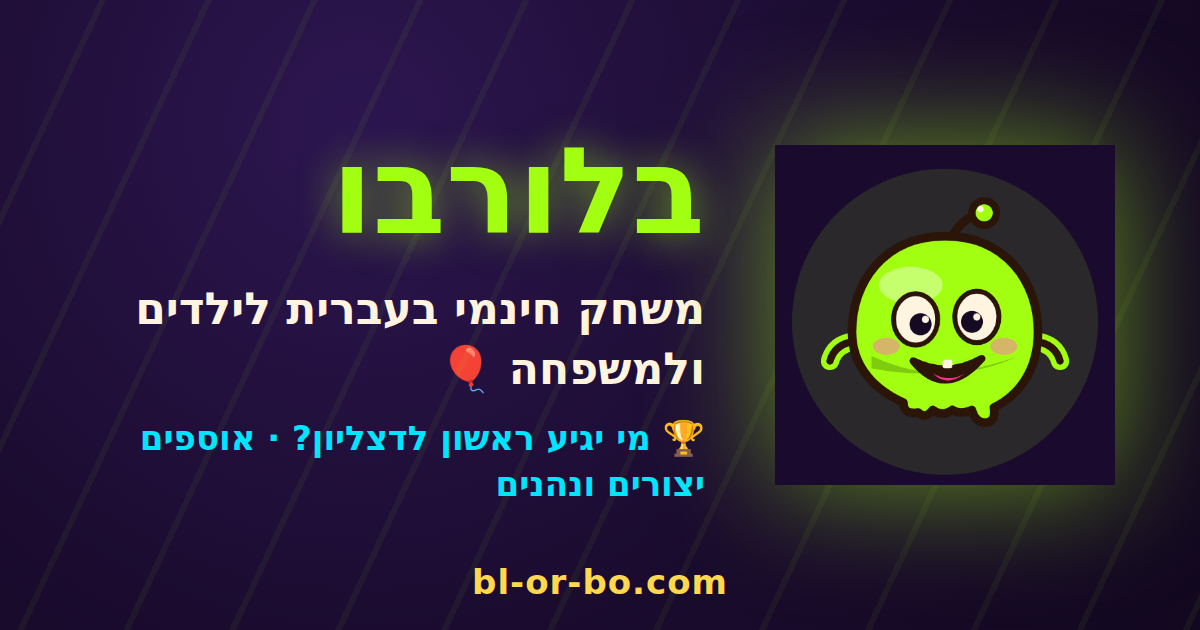
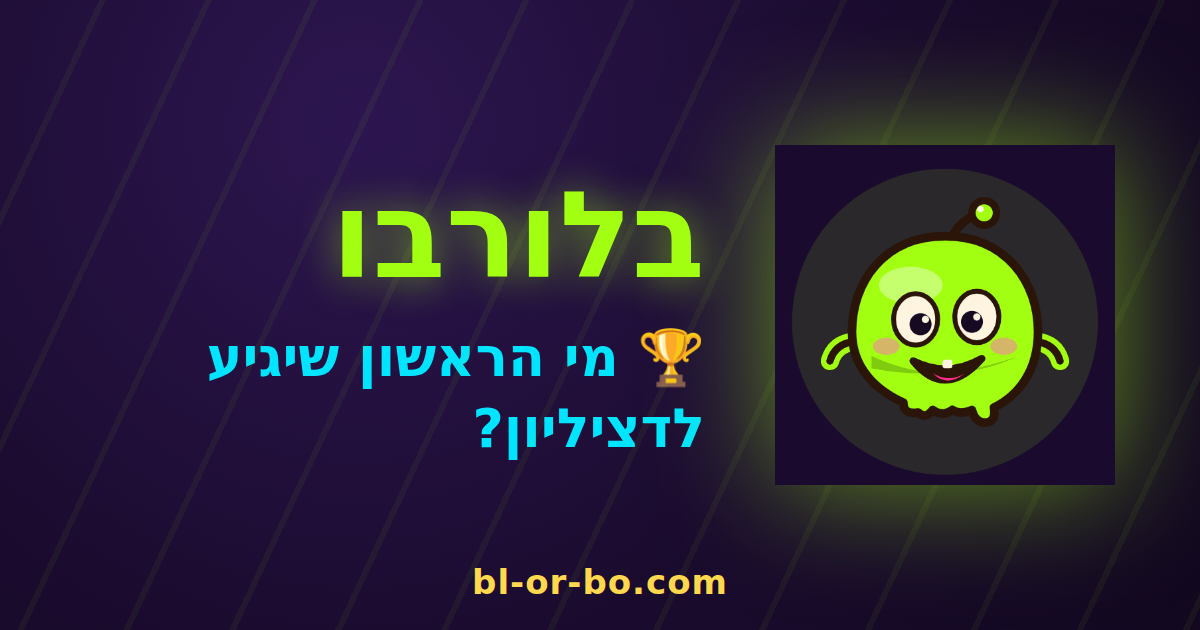
Share copy = the challenge only; clarify the gold-bonus ability text
Owner iteration on the distribution push.

- Share (image + text + meta) is now just the hook, no "free game in Hebrew"
  description: og.png regenerated to "🏆 מי הראשון שיגיע לדציליון?", and
  SHARE_TEXT / og:description / meta description trimmed to match.
- The "gold bonus" creature ability read "+50% מבונוס הזהב", which didn't say
  what it does. It multiplies the golden-blob payout by 1+value (store.ts), so
  the label now reads "הבלוב הזהב משלם +50%" — plainly, the golden blob pays
  more. Copy-only (not a golden-locked rule; 792 unit incl. golden still green).

SW cache v130 -> v131. Client auto-deploys.

Claude-Session: https://claude.ai/code/session_01FUpLehrZUYkMZWaX4vz3PX

Changed region(s): [[0.0925, 0.2111, 0.5858, 0.7238], [0.0925, 0.6635, 0.2158, 0.7238], [0.4008, 0.754, 0.5858, 0.7841]]

diff --git a/index.html b/index.html
@@ -8,7 +8,7 @@
          being distributed around (owner request) — the "no pop-up ads" line was
          pulled from the SHARE copy; the factual promise still lives in
          parents.html for parents who open it. -->
-    <meta name="description" content="בלורבו — משחק חינמי בעברית לילדים ולמשפחה. מי יגיע ראשון לדצליון? לוחצים, בוקעים ביצים ואוספים יצורים חמודים, ומטפסים בטבלת המובילים." />
+    <meta name="description" content="בלורבו — מי הראשון שיגיע לדציליון?" />
     <link rel="canonical" href="https://bl-or-bo.com/" />
     <!-- Share cards: a link pasted in WhatsApp/Facebook (where Israeli parents
          actually swap game recommendations) renders as a rich card, not a bare
@@ -16,7 +16,7 @@
     <meta property="og:type" content="website" />
     <meta property="og:site_name" content="בלורבו" />
     <meta property="og:title" content="בלורבו — משחק חינמי בעברית לילדים" />
-    <meta property="og:description" content="מי יגיע ראשון לדצליון? 🏆 אוספים יצורים חמודים, בוקעים ביצים ומטפסים בטבלת המובילים!" />
+    <meta property="og:description" content="🏆 מי הראשון שיגיע לדציליון?" />
     <meta property="og:url" content="https://bl-or-bo.com/" />
     <meta property="og:image" content="https://bl-or-bo.com/og.png" />
     <meta property="og:image:width" content="1200" />

diff --git a/src/game/abilities.ts b/src/game/abilities.ts
@@ -21,7 +21,7 @@ export const ABILITY_META: Record<AbilityType, { icon: string; nameHe: string; d
   crit: { icon: '⚡', nameHe: 'מַכָּה קְרִיטִית', descHe: (p) => `+${p}% סִיכּוּי לְמַכָּה קְרִיטִית` },
   luck: { icon: '🍀', nameHe: 'מַזָּל', descHe: (p) => `+${p}% מַזָּל לִיצוּרִים נְדִירִים` },
   combo: { icon: '🔥', nameHe: 'קוֹמְבּוֹ', descHe: (p) => `+${p}% מִבּוֹנוּס הַקּוֹמְבּוֹ` },
-  bonus: { icon: '🎁', nameHe: 'בּוֹנוּס זָהָב', descHe: (p) => `+${p}% מִבּוֹנוּס הַזָּהָב` },
+  bonus: { icon: '🎁', nameHe: 'בּוֹנוּס זָהָב', descHe: (p) => `הַבָּלוֹב הַזָּהֹב מְשַׁלֵּם +${p}%` },
 };
 
 const TIER: Record<Rarity, number> = { common: 0, uncommon: 1, rare: 2, legendary: 3 };

diff --git a/src/ui/share.ts b/src/ui/share.ts
@@ -6,8 +6,7 @@
 
 export const SHARE_URL = 'https://bl-or-bo.com/';
 
-export const SHARE_TEXT =
-  'בלורבו 🫧 מי יגיע ראשון לדצליון גּו? 🏆 חמשת הראשונים יקבלו יצור על שמם במשחק! אוספים יצורים חמודים, בוקעים ביצים ומטפסים בטבלת המובילים 👇';
+export const SHARE_TEXT = 'בלורבו 🫧 מי הראשון שיגיע לדציליון? 🏆';
 
 /** wa.me deep link — opens the WhatsApp app on mobile, WhatsApp Web on desktop,
  * with the message + link prefilled for the user to pick a chat and send. */

diff --git a/public/sw.js b/public/sw.js
@@ -4,7 +4,7 @@
 // - Hashed build assets are cache-first (their URL changes when they change).
 // - Everything is same-origin and local: no third-party requests, ever.
 
-const CACHE = 'blorbo-v130';
+const CACHE = 'blorbo-v131';
 
 self.addEventListener('install', (event) => {
   self.skipWaiting();
